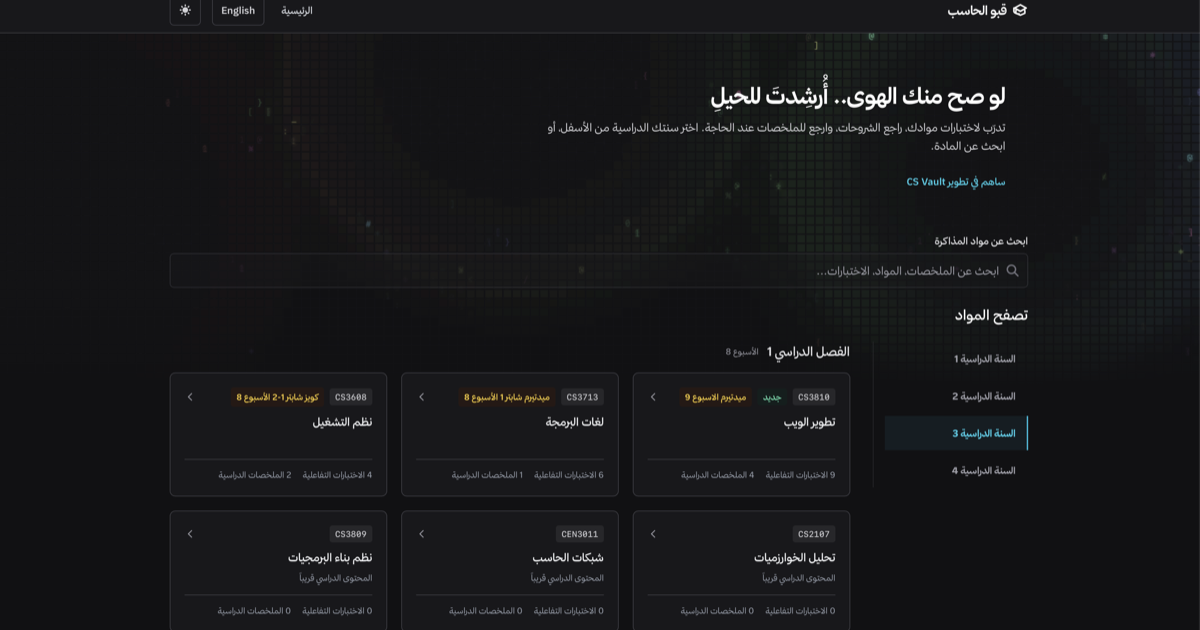
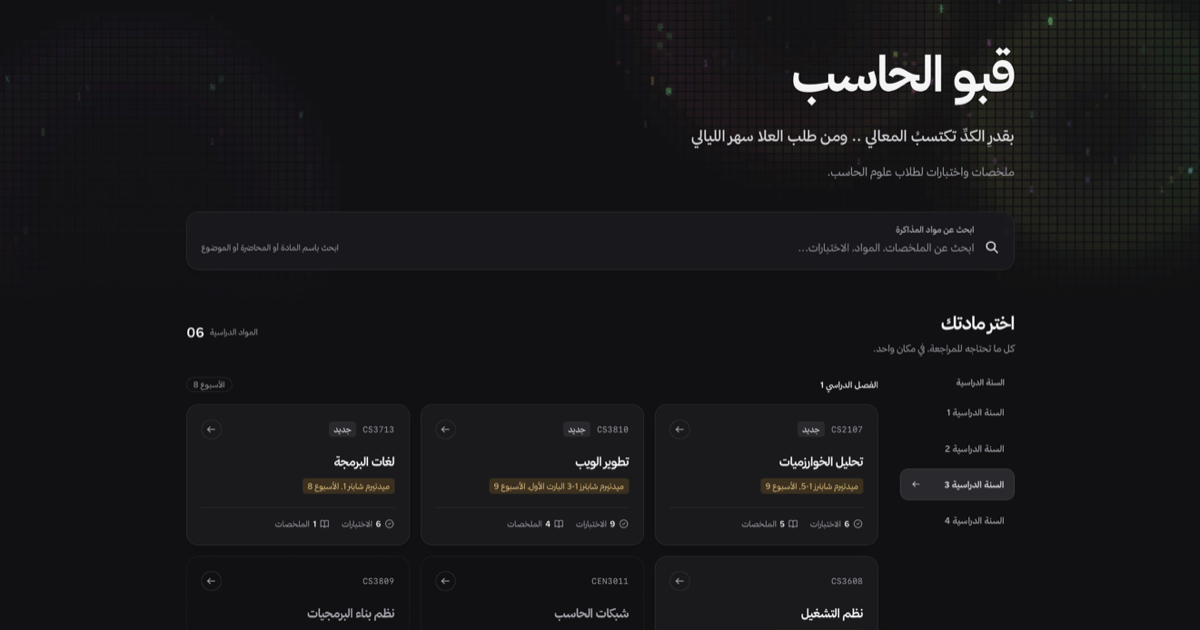
Some Changes

diff --git a/src/i18n/ui.ts b/src/i18n/ui.ts
@@ -109,7 +109,8 @@ export const ui = {
     'course.comingSoon': 'Study material coming soon',
     'courseAlert.programmingLanguages': 'Midterm Chapter 1 Week 8',
     'courseAlert.operatingSystems': 'Quiz Ch1-2 Week 8',
-    'courseAlert.webdevelopment': 'Midterm Week 9',
+    'courseAlert.webdevelopment': 'Midterm Ch1-3 Part 1, Week 9',
+    'courseAlert.algorithmAnalysis': 'Midterm Ch1-5, Week 9',
     'quiz.source.instructor': 'From the instructor',
     'quiz.source.provided': 'Expected exam questions',
     'quiz.source.generated': 'AI-generated practice',
@@ -310,9 +311,10 @@ export const ui = {
     'quiz.topic.general': 'عام',
     'course.new': 'جديد',
     'course.comingSoon': 'المحتوى الدراسي قريباً',
-    'courseAlert.programmingLanguages': 'ميدتيرم شابتر 1 الأسبوع 8',
-    'courseAlert.webdevelopment': 'ميدتيرم الاسبوع 9',
-    'courseAlert.operatingSystems': 'كويز شابتر 1-2 الأسبوع 8',
+    'courseAlert.programmingLanguages': 'ميدتيرم شابتر 1, الأسبوع 8',
+    'courseAlert.webdevelopment': 'ميدتيرم شابترز 1-3 البارت الأول، الأسبوع 9',
+    'courseAlert.algorithmAnalysis': 'ميدتيرم شابترز 1-5, الأسبوع 9',
+    'courseAlert.operatingSystems': 'كويز شابتر 1-2, الأسبوع 8',
     'quiz.source.instructor': 'من الدكتور',
     'quiz.source.provided': 'أسئلة متوقعة للامتحان',
     'quiz.source.generated': 'تدريب مولّد بالذكاء الاصطناعي',

diff --git a/src/styles/home.css b/src/styles/home.css
@@ -18,6 +18,7 @@
 .directory-heading p { margin-top: .35rem; font-size: .875rem; color: var(--study-muted); }
 .directory-subject-count { display: flex; align-items: center; gap: .5rem; font-size: 1.25rem; font-weight: 600; font-variant-numeric: tabular-nums; color: var(--study-text); }
 .directory-subject-count > span { color: var(--study-muted); font-size: .75rem; font-weight: 400; }
+html[dir="rtl"] .directory-subject-count { flex-direction: row-reverse; }
 .directory-layout:not(.hidden) { display: grid; grid-template-columns: 10.5rem minmax(0, 1fr); align-items: start; gap: 2rem; }
 .year-selector { position: sticky; top: 6.5rem; }
 .year-selector-label { display: block; padding-inline-start: .9rem; margin-bottom: .75rem; font-size: .65rem; letter-spacing: .1em; font-weight: 700; color: var(--study-muted); }
